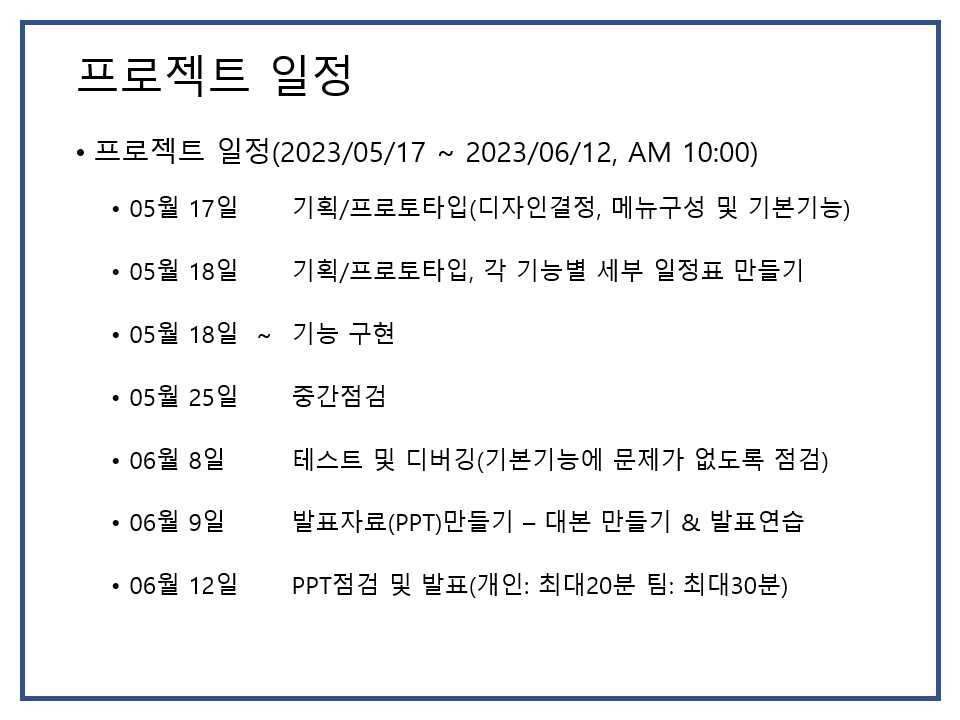
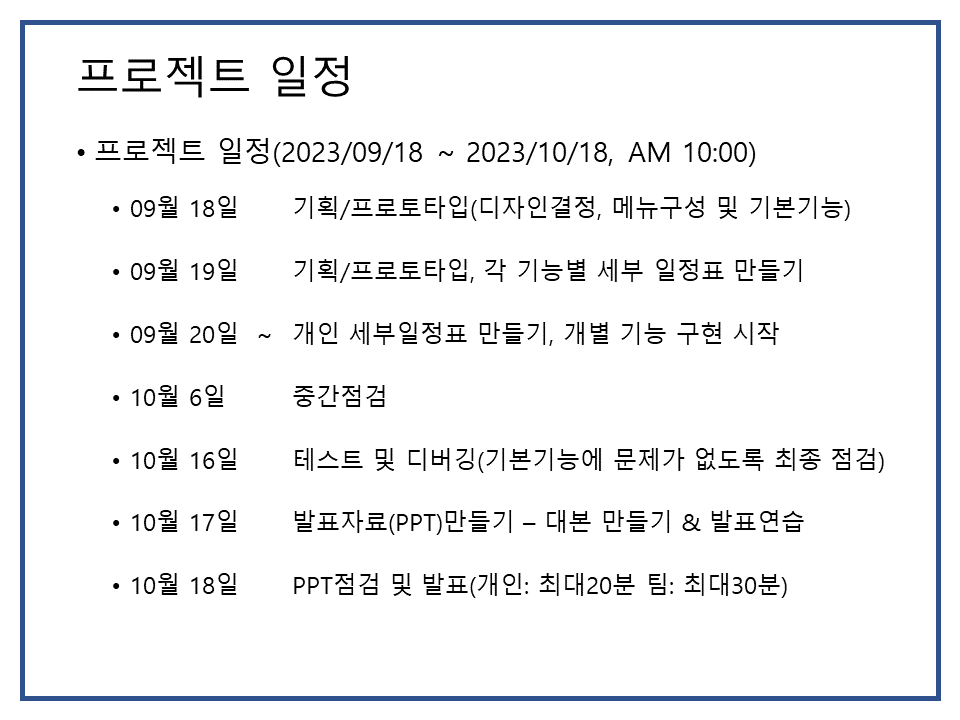
일정 수정

diff --git a/dday.html b/dday.html
@@ -9,7 +9,7 @@
     <script>
         $(function(){
             var today = new Date();
-            var finishDay = new Date("2023-08-29");
+            var finishDay = new Date("2023-10-18");
             var diff = finishDay.getTime()-today.getTime();
             var d_day = Math.ceil(diff/(1000*60*60*24));
             $(".d-day").text(d_day);
@@ -40,9 +40,10 @@
     <div class="container">
         <div class="content">
             <p>프로젝트 종료일까지 <span class="d-day">10</span>일</p>
-            <img src="images/ppt_content2.jpg" width="70%" height="70%" >
-            <!-- <img src="images/schedule.png" width="70%" height="70%" >    -->
-            <!-- <img src="images/ppt_content.png" width="70%" height="70%" >    -->
+            <!-- <img src="images/ppt_content2.jpg" width="70%" height="70%" > -->
+            <img src="images/schedule.png" width="70%" height="70%" >   
+            <p>프로젝트 종료일까지 <span class="d-day">10</span>일</p>
+            <img src="images/ppt_content.png" width="70%" height="70%" >   
         </div>    
     </div>
 
